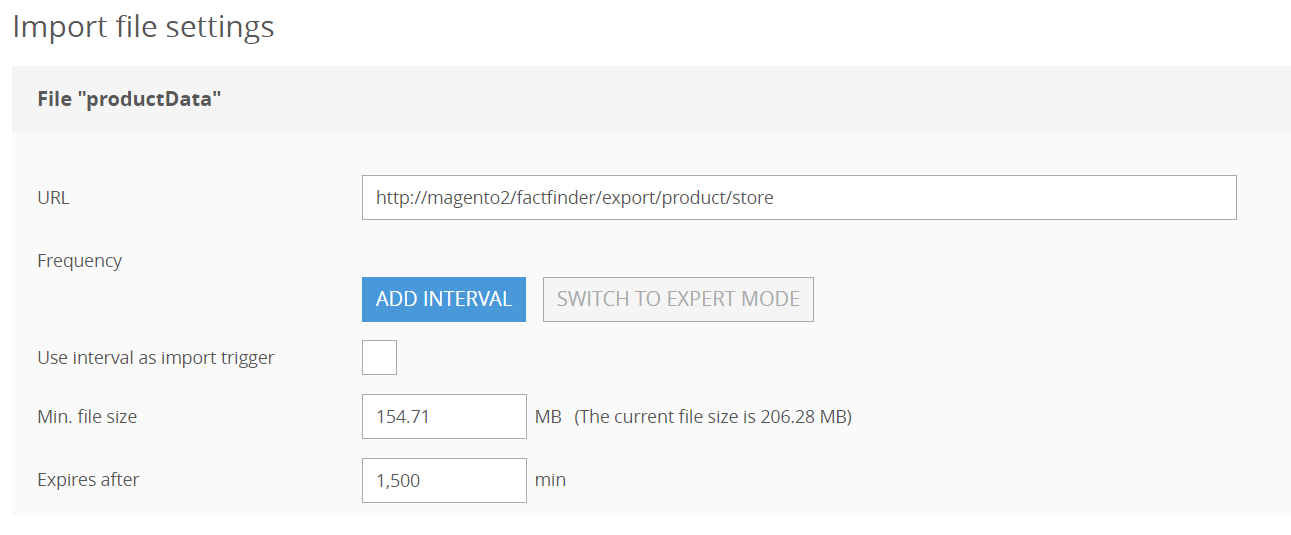
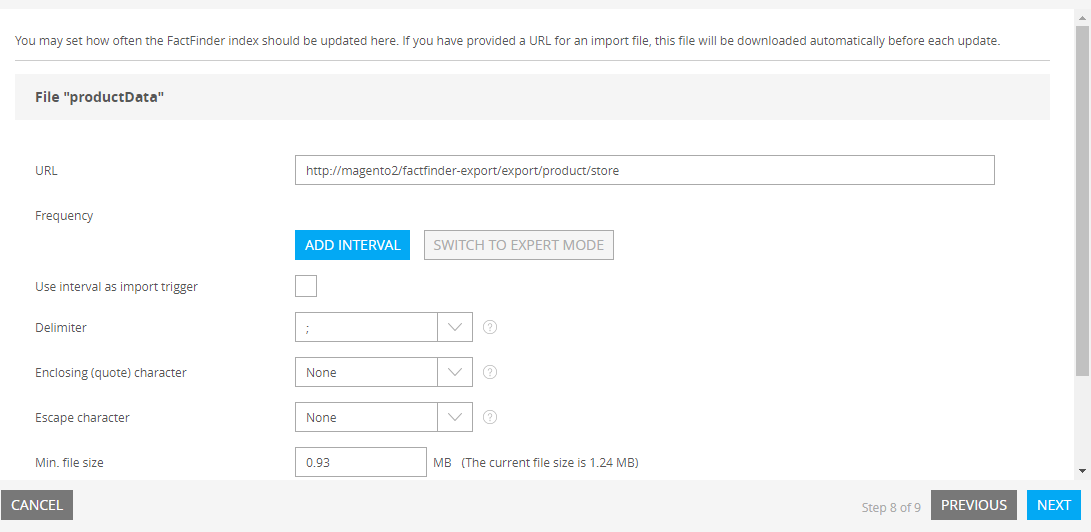
FFWEB-2761: Update documentation for project
Update documentation for project

diff --git a/src/Model/Api/PushImport.php b/src/Model/Api/PushImport.php
@@ -13,7 +13,7 @@ use Omikron\FactFinder\Communication\Version;
 
 class PushImport
 {
-    private string $pushImportResult;
+    private string $pushImportResult = '';
 
     public function __construct(
         private readonly ClientBuilder $clientBuilder,

diff --git a/README.md b/README.md
@@ -184,7 +184,7 @@ Alternative way to integrate Your feed is to use builtin FACT-Finder functionali
 
 ![HTTP Export](docs/assets/http-export.png "HTTP Export")
 
-Exports are available under following location: `https://YOUR_SHOP_URL/factfinder/export/product/store/YOUR_STORE_ID`
+Exports are available under following location: `https://YOUR_SHOP_URL/factfinder-export/export/product/store/YOUR_STORE_ID`
 
 If there's no `store id` provided, feed will be generated with the default store (by default with id = 1)
 
